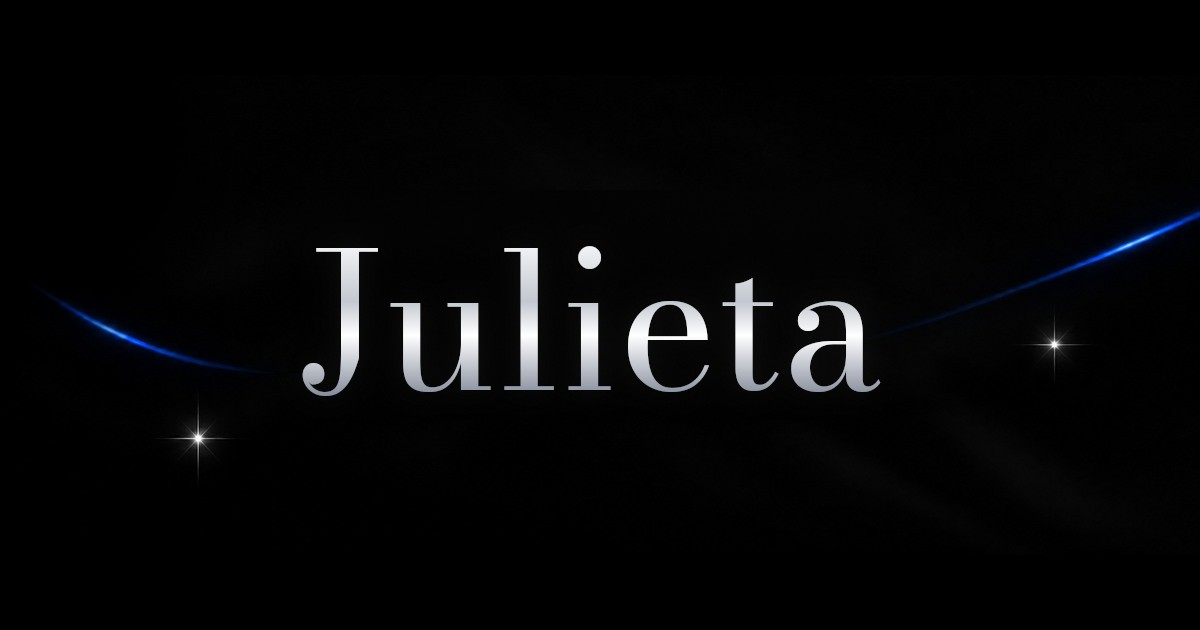
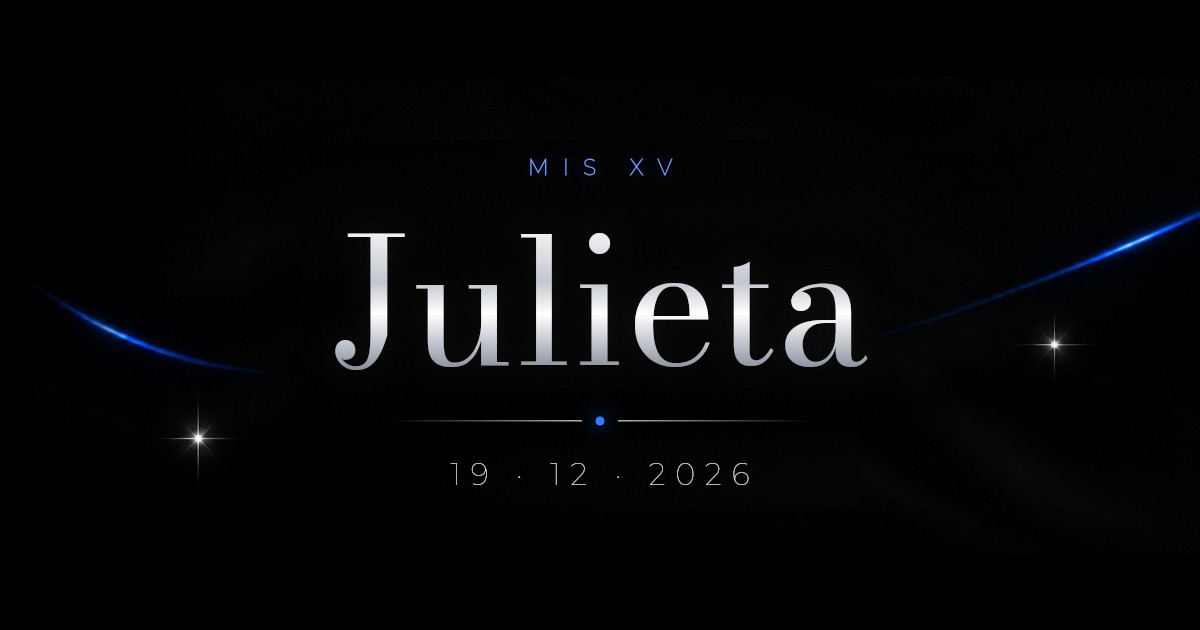
Actualiza regalos, dress code bordo, galeria y vista previa de WhatsApp
- Entidad de regalos: Banco Galicia
- Vestido del dress code en color bordo
- Nueva foto en el medio de la galeria
- Nueva imagen y mensaje para compartir por WhatsApp

diff --git a/index.html b/index.html
@@ -4,13 +4,13 @@
   <meta charset="utf-8">
   <meta name="viewport" content="width=device-width, initial-scale=1, viewport-fit=cover">
   <meta name="theme-color" content="#000000">
-  <meta name="description" content="Una noche soñada se acerca y me haría muy feliz compartirla con vos. Te espero en mis XV ✨">
+  <meta name="description" content="El 19 de diciembre cumplo mis XV y no me imagino esa noche sin vos. Te espero para bailar, brindar y celebrar juntos ✨">
   <meta property="og:type" content="website">
   <meta property="og:locale" content="es_AR">
   <meta property="og:title" content="Mis XV · Julieta">
-  <meta property="og:description" content="Una noche soñada se acerca y me haría muy feliz compartirla con vos. Te espero para celebrar juntos ✨">
-  <meta property="og:image" content="https://bloomdate-julieta15.netlify.app/assets/compartir-whatsapp-julieta.jpg?v=1">
-  <meta property="og:image:secure_url" content="https://bloomdate-julieta15.netlify.app/assets/compartir-whatsapp-julieta.jpg?v=1">
+  <meta property="og:description" content="El 19 de diciembre cumplo mis XV y no me imagino esa noche sin vos. Te espero para bailar, brindar y celebrar juntos ✨">
+  <meta property="og:image" content="https://bloomdate-julieta15.netlify.app/assets/compartir-whatsapp-julieta.jpg?v=2">
+  <meta property="og:image:secure_url" content="https://bloomdate-julieta15.netlify.app/assets/compartir-whatsapp-julieta.jpg?v=2">
   <meta property="og:image:type" content="image/jpeg">
   <meta property="og:image:width" content="1200">
   <meta property="og:image:height" content="630">
@@ -18,8 +18,8 @@
   <meta property="og:url" content="https://bloomdate-julieta15.netlify.app/">
   <meta name="twitter:card" content="summary_large_image">
   <meta name="twitter:title" content="Mis XV · Julieta">
-  <meta name="twitter:description" content="Una noche soñada se acerca y me haría muy feliz compartirla con vos. Te espero para celebrar juntos ✨">
-  <meta name="twitter:image" content="https://bloomdate-julieta15.netlify.app/assets/compartir-whatsapp-julieta.jpg?v=1">
+  <meta name="twitter:description" content="El 19 de diciembre cumplo mis XV y no me imagino esa noche sin vos. Te espero para bailar, brindar y celebrar juntos ✨">
+  <meta name="twitter:image" content="https://bloomdate-julieta15.netlify.app/assets/compartir-whatsapp-julieta.jpg?v=2">
   <title>Julieta · Mis XV</title>
   <link rel="preload" as="image" href="assets/intro-boliche.png">
   <link rel="stylesheet" href="styles.css">
@@ -90,8 +90,8 @@
         <button class="polaroid polaroid--2" type="button" data-gallery-src="assets/julieta-3.jpg" aria-label="Ampliar foto de Julieta en las escaleras">
           <img src="assets/julieta-3.jpg" alt="Julieta parada en unas escaleras" width="1513" height="1600" loading="lazy" decoding="async">
         </button>
-        <button class="polaroid polaroid--3" type="button" data-gallery-src="assets/julieta-2.jpg" aria-label="Ampliar foto de Julieta en la ciudad">
-          <img src="assets/julieta-2.jpg" alt="Julieta sentada frente a un edificio antiguo" width="1071" height="1600" loading="lazy" decoding="async">
+        <button class="polaroid polaroid--3" type="button" data-gallery-src="assets/julieta-4.jpg" aria-label="Ampliar foto de Julieta bajando las escaleras">
+          <img src="assets/julieta-4-galeria.jpg" alt="Julieta bajando unas escaleras" width="800" height="1200" loading="lazy" decoding="async">
         </button>
         <button class="polaroid polaroid--4" type="button" data-gallery-src="assets/julieta-1.jpg" aria-label="Ampliar foto de Julieta sentada en las escaleras">
           <img src="assets/julieta-1.jpg" alt="Julieta sentada en unas escaleras" width="1071" height="1600" loading="lazy" decoding="async">
@@ -175,7 +175,7 @@
     <dl>
       <div><dt>ALIAS</dt><dd id="gift-alias">INCA.JULIO.OSO</dd></div>
       <div><dt>NOMBRE</dt><dd>Analía Texidó</dd></div>
-      <div><dt>ENTIDAD</dt><dd>Mercado Pago</dd></div>
+      <div><dt>ENTIDAD</dt><dd>Banco Galicia</dd></div>
     </dl>
     <button class="copy-alias" type="button" data-copy-alias>COPIAR ALIAS</button>
     <span class="copy-status" aria-live="polite"></span>

diff --git a/styles.css b/styles.css
@@ -88,8 +88,7 @@ main { width: min(100%, 942px); margin: 0 auto; background: #000; box-shadow: 0 
 .gallery-panel::before { content: ""; position: absolute; inset: 0; background: linear-gradient(118deg, transparent 20%, rgb(19 75 255 / .11) 39%, transparent 55%), radial-gradient(circle at 18% 75%, rgb(255 255 255 / .08), transparent 19%); pointer-events: none; }
 .polaroid-gallery { position: absolute; z-index: 3; inset: 6% 5% 5%; }
 .polaroid { position: absolute; width: 44%; padding: 2.1%; border: 0; background: #f4f2ec; color: #171717; box-shadow: 0 18px 45px rgb(0 0 0 / .65), 0 0 24px rgb(15 72 255 / .14); cursor: zoom-in; opacity: 0; transition: opacity .75s ease, transform .85s cubic-bezier(.2,.75,.2,1), box-shadow .25s ease; }
-.polaroid img { display: block; width: 100%; aspect-ratio: 2 / 3; object-fit: cover; }
-.polaroid--1 { left: 2%; top: 1%; --angle: -7deg; transform: translate(-30px, 30px) rotate(-13deg); }
+.polaroid img { display: block; width: 100%; aspect-ratio: 2 / 3; object-fit: cover; }.polaroid--1 { left: 2%; top: 1%; --angle: -7deg; transform: translate(-30px, 30px) rotate(-13deg); }
 .polaroid--2 { right: 1%; top: 7%; --angle: 6deg; transform: translate(30px, 30px) rotate(12deg); }
 .polaroid--3 { left: 5%; bottom: 1%; --angle: 5deg; transform: translate(-30px, 30px) rotate(11deg); }
 .polaroid--4 { right: 4%; bottom: 7%; --angle: -6deg; transform: translate(30px, 30px) rotate(-12deg); }
